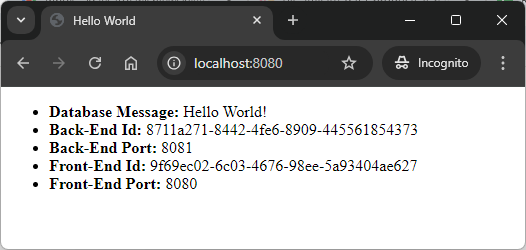
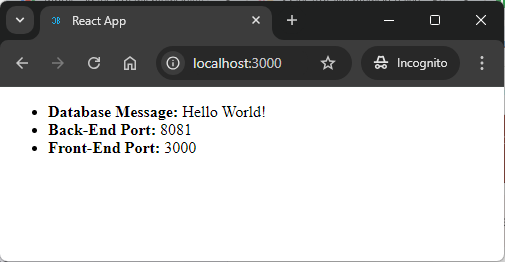
Remove be and fe ids

diff --git a/others/services/fe-react-be-springboot-db-sql-mysql/fe-react-be-springboot-db-sql-mysql_FE/src/components/HelloWorld.js b/others/services/fe-react-be-springboot-db-sql-mysql/fe-react-be-springboot-db-sql-mysql_FE/src/components/HelloWorld.js
@@ -1,18 +1,13 @@
 import { useState, useEffect } from "react";
-import getFixedUUID from "../services/uuidService";
 
 function HelloWorld() {
 
   const [message, setMessage] = useState("");
-  const [idBe, setIdBe] = useState("");
   const [portBe, setPortBe] = useState("");
-  const [idFe, setIdFe] = useState("");
   const portFe = window.location.port;
 
   useEffect(() =>{
 
-    const uuid = getFixedUUID();
-    setIdFe(uuid);
     const apiUrl = process.env.REACT_APP_API_URL;
     
     const fetchData = async () => {
@@ -20,7 +15,6 @@ function HelloWorld() {
       const response = await fetch(`${apiUrl}/message/1`);
       const result = await response.json();
       setMessage(result.text);
-      setIdBe(result.idBe);
       setPortBe(result.portBe);
 
     };
@@ -36,16 +30,8 @@ function HelloWorld() {
           <span> {message} </span>
       </li>
       <li>
-          <span><b>Back-End Id: </b></span>
-          <span> {idBe} </span>
-      </li>
-      <li>
           <span><b>Back-End Port: </b></span>
           <span> {portBe} </span>
-      </li>
-      <li>
-          <span><b>Front-End Id: </b></span>
-          <span> {idFe} </span>
       </li>
       <li>
           <span><b>Front-End Port: </b></span>

diff --git a/others/services/fe-react-be-springboot-db-sql-mysql/fe-react-be-springboot-db-sql-mysql_BE/src/main/java/com/example/services/HelloWorldService.java b/others/services/fe-react-be-springboot-db-sql-mysql/fe-react-be-springboot-db-sql-mysql_BE/src/main/java/com/example/services/HelloWorldService.java
@@ -24,8 +24,7 @@ public class HelloWorldService {
         
         HelloWorldEntity helloWorldEntity = helloWorldRepository.findById(id).orElseThrow(() -> new RuntimeException("Message doesn't exist"));
         String portBe = environment.getProperty("local.server.port");
-		String idBe = System.getProperty("id");
-        return new HelloWorldDto(helloWorldEntity.getId(), helloWorldEntity.getText(), idBe, portBe);
+        return new HelloWorldDto(helloWorldEntity.getId(), helloWorldEntity.getText(), portBe);
 
     }
 

diff --git a/others/services/fe-react-be-springboot-db-sql-mysql/fe-react-be-springboot-db-sql-mysql_BE/src/main/java/com/example/dtos/HelloWorldDto.java b/others/services/fe-react-be-springboot-db-sql-mysql/fe-react-be-springboot-db-sql-mysql_BE/src/main/java/com/example/dtos/HelloWorldDto.java
@@ -1,3 +1,3 @@
 package com.example.dtos;
 
-public record HelloWorldDto(Long id, String text, String idBe, String portBe) {}
+public record HelloWorldDto(Long id, String text, String portBe) {}
